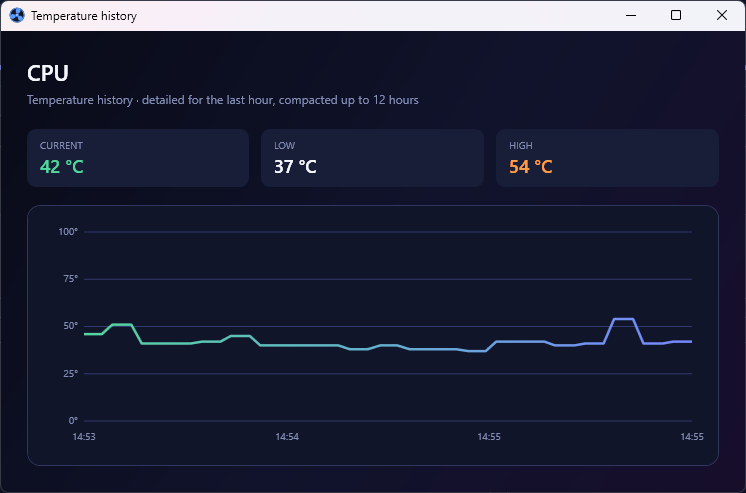
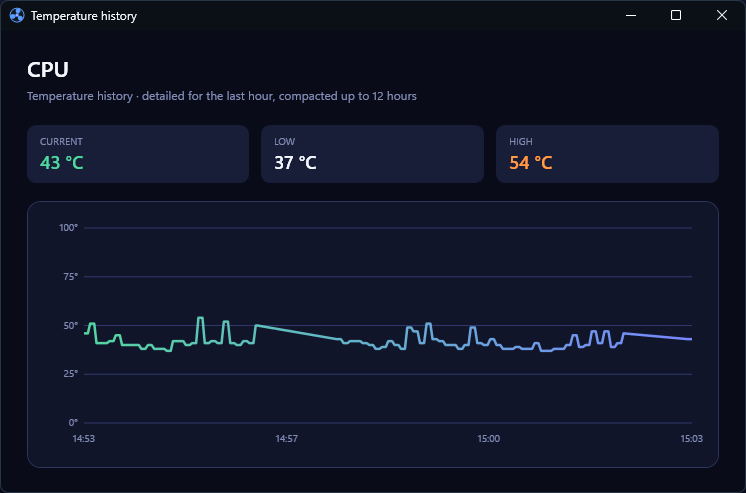
chore: bump version to 1.2.0

diff --git a/LenovoDesktopFanControl/Views/Controls/TemperatureChartWindow.xaml b/LenovoDesktopFanControl/Views/Controls/TemperatureChartWindow.xaml
@@ -4,10 +4,14 @@
         Title="Temperature history"
         Width="760" Height="500" MinWidth="560" MinHeight="390"
         WindowStartupLocation="CenterOwner"
-        Background="{StaticResource WindowGradientBrush}"
+        ResizeMode="CanResize"
+        UseLayoutRounding="True"
+        SnapsToDevicePixels="True"
+        Background="{StaticResource WindowBrush}"
         Foreground="{StaticResource TextPrimaryBrush}"
-        UseLayoutRounding="True">
-    <Grid Margin="26">
+        FontFamily="{StaticResource AppFont}">
+    <Grid Margin="26,22,26,24"
+          Background="{StaticResource WindowBrush}">
         <Grid.RowDefinitions>
             <RowDefinition Height="Auto" />
             <RowDefinition Height="Auto" />

diff --git a/LenovoDesktopFanControl/Views/Controls/TemperatureChartWindow.xaml.cs b/LenovoDesktopFanControl/Views/Controls/TemperatureChartWindow.xaml.cs
@@ -1,7 +1,9 @@
 using System.Windows;
+using System.Windows.Automation;
 using System.Windows.Media;
 using System.Windows.Shapes;
 using LenovoDesktopFanControl.Models;
+using LenovoDesktopFanControl.Services;
 using LenovoDesktopFanControl.ViewModels;
 using MediaColor = System.Windows.Media.Color;
 using WpfCanvas = System.Windows.Controls.Canvas;
@@ -31,6 +33,9 @@ public partial class TemperatureChartWindow : Window
     private TemperatureChartWindow(string sourceName, int? currentTemperature, TemperatureHistory history)
     {
         SourceName = sourceName;
+        Title = $"{sourceName} · Temperature history";
+        AutomationProperties.SetName(this, Title);
+        SourceInitialized += (_, _) => NativeWindowTheme.Apply(this);
         _samples = history.Samples.OrderBy(sample => sample.TimestampUtc).ToArray();
         var values = _samples.Select(sample => sample.Celsius).ToArray();
         CurrentLabel = currentTemperature is int current ? $"{current} °C" : "—";

diff --git a/README.md b/README.md
@@ -24,6 +24,9 @@ Use this software at your own risk. Monitor system temperatures, use conservativ
 
 - Quiet, Balanced, Performance, and Custom SmartFan modes
 - Live fan RPM and temperature monitoring
+- GPU, CPU, SSD, and motherboard/system temperature cards with source details
+- Clickable temperature-history charts, retaining detailed readings for one hour and compacted readings for up to twelve hours
+- Shared Lenovo firmware sensors shown once in System Temperatures instead of repeated on every affected fan card
 - Per-fan target speeds
 - Interactive ten-point fan-curve editor
 - Multi-channel telemetry grouped into logical fan zones
@@ -84,7 +87,7 @@ Enabling **Start with Windows** creates a per-user Task Scheduler logon task wit
 - A Windows LampArray-compatible Lenovo lighting controller for lighting control
 - An NVIDIA display driver for lighting control on the supported Lenovo OEM RTX 5080
 - Administrator privileges for Lenovo WMI operations
-- The official signed [PawnIO](https://pawnio.eu/) driver for low-level CPU and motherboard temperature telemetry
+- The official signed [PawnIO](https://pawnio.eu/) driver is optional, but required for CPU and motherboard telemetry on systems that need low-level sensor access
 
 Target framework: `net10.0-windows10.0.26100.0`.
 
@@ -113,8 +116,9 @@ dotnet test -c Release
 1. Select a SmartFan mode and choose **Apply Mode**.
 2. For manual control, select Custom mode, adjust a fan’s target speed, and choose **Apply Speed**.
 3. Use **Edit Curve** to configure and apply a ten-point curve for an individual fan zone.
-4. In Tower Lighting, enable the lights, select brightness and colors, then choose **Apply Lighting**.
-5. On supported Windows 11 builds, register and prioritize the app for background lighting if the selected color should remain active while another app is in the foreground.
+4. Click a System Temperatures card to view its temperature history. Shared motherboard/system sensors appear there once instead of on every fan card.
+5. In Tower Lighting, enable the lights, select brightness and colors, then choose **Apply Lighting**.
+6. On supported Windows 11 builds, register and prioritize the app for background lighting if the selected color should remain active while another app is in the foreground.
 
 Applying custom fan control changes firmware behavior. Monitor temperatures and use conservative curves appropriate for the installed hardware.
 
@@ -145,7 +149,7 @@ Application data is stored in:
 `-- log.txt
 ```
 
-`settings.json` contains fan curves, mode, language, startup/tray preferences, and lighting preferences. `log.txt` records hardware discovery, control operations, warnings, and errors.
+`settings.json` contains fan curves, fan and system temperature histories, mode, language, startup/tray preferences, and lighting preferences. `log.txt` records hardware discovery, control operations, warnings, and errors.
 
 If behavior is unexpected, close the application, inspect `log.txt`, and include the relevant entries with any bug report. Deleting `settings.json` resets application preferences to their defaults.
 
@@ -272,7 +276,9 @@ The workflow can also be started manually from the GitHub Actions page by provid
 - Install the official signed [PawnIO](https://pawnio.eu/) driver and restart the application.
 - Run the application as administrator.
 - Review the LibreHardwareMonitor sensor inventory in `%LOCALAPPDATA%\LenovoDesktopFanControl\log.txt`.
-- Motherboard temperature requires a `System` or `Motherboard` sensor exposed by the board's Super I/O controller; unsupported boards remain clearly marked as unavailable.
+- Motherboard temperature normally requires a `System` or `Motherboard` sensor exposed by the board's Super I/O controller.
+- On supported Lenovo desktops where no named board sensor is exposed, the app can display the shared firmware system sensor used by the chassis fans. Its source is labelled clearly in the UI.
+- If neither source is available, the reading remains unavailable rather than guessing from an unrelated sensor.
 
 ### Lighting does not appear
 